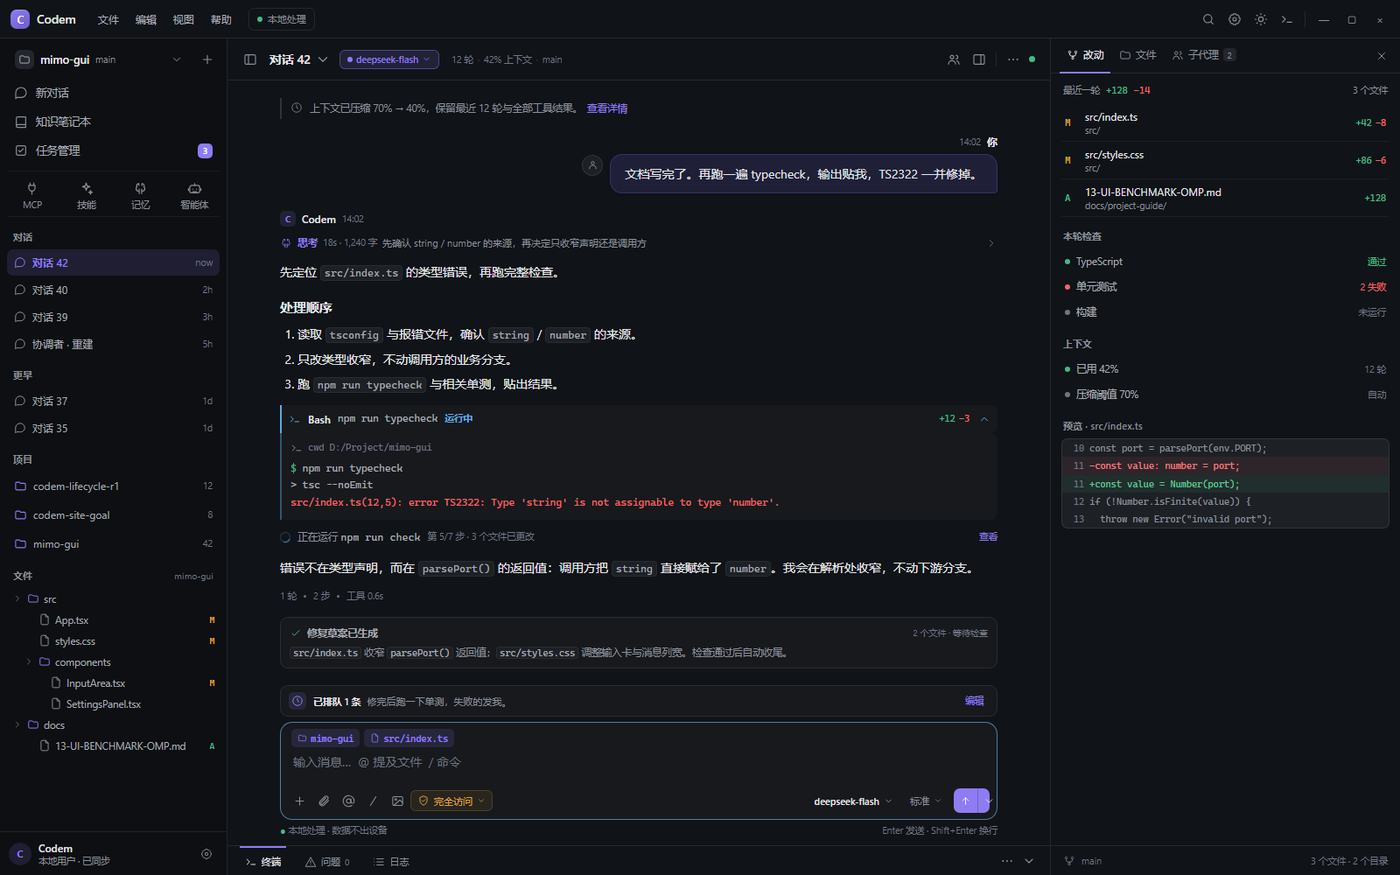
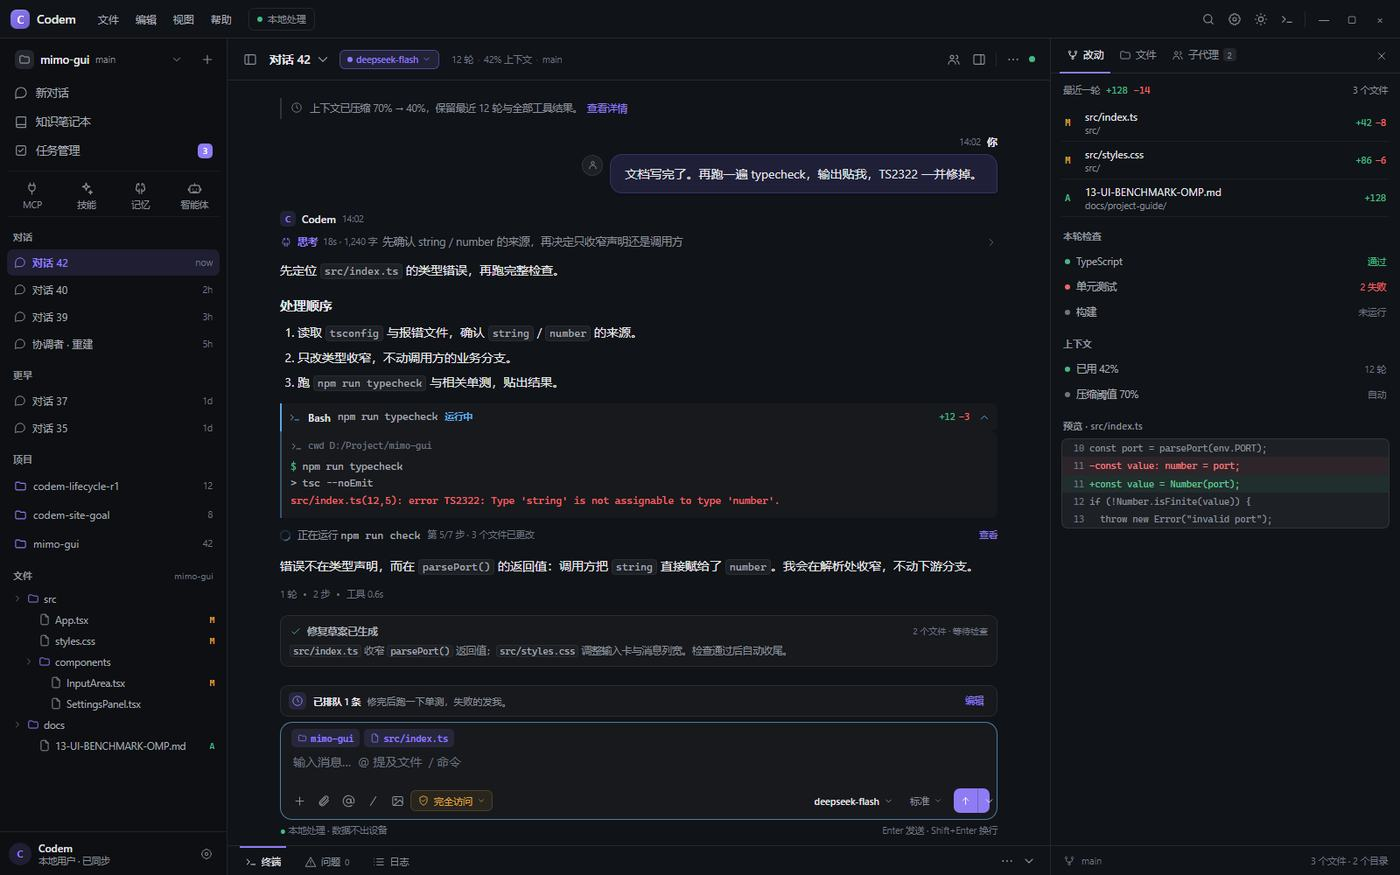
docs(ui): correct reasoning performance claim with DSH/Codex evidence
- withdraw the per-delta main-chat DB claim; msgw=0 confirms main UI
  batches 100ms and persists at boundaries/2s, executor path is background
- inspect DSH open-source packages: single ReasoningRow, paragraph-level
  summary, fixed 24px collapsed height, 200ms JSONL batching
- record Codex Windows concurrent-summary ResizeObserver/UI-freeze issue
- final decision: DSH-like single row, no reasoningSegments, no per-thought
  cards; chunked expanded body only

Changed region(s): [[0.1843, 0.2469, 0.7064, 0.7714], [0.645, 0.7097, 0.7064, 0.7406], [0.6757, 0.4629, 0.7064, 0.4937]]

diff --git a/docs/design/ui-benchmark-mock.html b/docs/design/ui-benchmark-mock.html
@@ -568,8 +568,9 @@
     align-items: center;
     gap: 6px;
     width: 100%;
-    height: 26px;
+    height: 24px;
     margin: 0 0 8px;
+    contain: size layout;
     padding: 0;
     border: 0;
     background: none;
@@ -579,7 +580,7 @@
   .think-row .icon { width: 14px; height: 14px; flex: none; opacity: .9; }
   .think-title { flex: none; font-size: 11.5px; font-weight: 600; }
   .think-meta { flex: none; color: var(--text-4); font-size: 10.5px; }
-  .think-summary { flex: 1; min-width: 0; overflow: hidden; text-overflow: ellipsis; white-space: nowrap; color: var(--text-3); font-size: 11px; }
+  .think-summary { flex: 1; min-width: 0; overflow: hidden; text-overflow: ellipsis; white-space: nowrap; color: var(--text-3); font-size: 12.5px; }
   .think-chev { width: 12px; height: 12px; flex: none; color: var(--text-4); transition: transform .15s ease; }
   .think-row[aria-expanded="true"] .think-chev { transform: rotate(90deg); }
   .think-body {

diff --git a/docs/project-guide/13-UI-BENCHMARK-OMP.md b/docs/project-guide/13-UI-BENCHMARK-OMP.md
@@ -41,7 +41,7 @@ Codem 的功能比 OMP 多得多（23 个设置分区、任务中心、知识笔
 | 8 | 侧栏/树密度：260 / 34 / 30 / 26；Git 字母 | 现在偏大、pill 吵 | 40 行滚动；hover 截图 |
 | 9 | 工具去“每张卡”边框，改行 + 状态轨 | 连续调用像一叠盒子 | 5 个工具连续截图 |
 | 10 | 用户气泡保留原版半透明紫 + 轻阴影 | 用户 review：原版比 OMP 实底更精致 | 与原版截图并排；暗/亮/三皮肤对比度 |
-| 11 | 思考块保留 Codem 的“整体一段”，先做活人感 | OMP 是 per-think 分段卡；Codem 数据模型只有一段 `message.reasoning` | 流式中最新行、完成后首行、展开全文；不按空行伪造分段 |
+| 11 | 思考块对齐 **DSH 的单行 ReasoningRow**，不是 OMP 的多卡 | OMP 是 per-think 分段卡；DSH 是单行 + 段落摘要 | 折叠 24px 固定高、流式段落首行、展开分块 body；不按空行伪造分段 |
 
 ### 0.2 HTML 预演验证（2026-10-26）
 
@@ -63,7 +63,7 @@ Codem 的功能比 OMP 多得多（23 个设置分区、任务中心、知识笔
 | 工具行 + 左状态轨成立，但代码面板与卡片同色会糊 | 代码面板用 `--surface-2`，工具行用 `--surface`；不要加外框 |
 | 暗色 `#101318` 比 OMP `#121519` 还黑一档 | 保留 `#101318` 作为 Codem 底色；如果实拍仍偏黑，再试 `#111419`，不要直接复制 OMP |
 | 设置 active 14% 在暗色成立；20% 明显成块 | P0-5 的 14% 保持；**删掉被覆盖的旧实心规则** |
-| Codem 的 `message.reasoning` 是**一整段**，OMP 的 `ThinkCard` 是 per-think 时间线卡 | **不照搬 OMP 分段**：P1-6 保留整体模型，做“最新行/首行 + 展开全文 + 跟随最新”；真分段需要 `reasoningSegments` 数据模型，放 P2 可选 |
+| Codem 的 `message.reasoning` 是**一整段**，OMP 的 `ThinkCard` 是 per-think 时间线卡 | **最终不做分段卡**：P1-6 对齐 DSH 单行（段落级摘要 + 固定 24px 折叠 + 展开分块 body）；不改数据模型 |
 
 **预演没有解决的问题**（不要假装已经解决）：
 
@@ -194,7 +194,15 @@ Codem 的功能比 OMP 多得多（23 个设置分区、任务中心、知识笔
 
 ### 0.4 思考流渲染性能分析（2026-10-26）
 
-> 先纠正一个前提：**Codem 的 UI 不是每 token 重渲染**。`App.tsx:1775-1801` 的 `flushReasoningBuffer` 已经按 **100ms** 批量 flush；`ReasoningRow` 每 100ms 才收到一次新 `text`。真正每 delta 都做的是 `executor.ts:601` 的 `MessageStorage.updateMessage`（同步写日志 + 索引 IPC + FTS）。所以“整段渲染导致每 token 重排”这个判断不准确，瓶颈要分层看。
+> **先纠正我上一轮说错的地方。** 主聊天路径**不是**每个 `reasoning_delta` 写一次库：
+> - `App.tsx:1775-1801` 已经按 **100ms** 批量 flush；
+> - `appendToMessage` / `safeUpdateMessage` 在主聊天里是**纯内存**；
+> - 落库走 2 秒 autosave / 回合边界 / 工具边界，不是每个 delta；
+> - 真机 `msgw=0`（`docs/PROJECT-GUIDE.md:1157`）已经明确否定了“交互路径每个 delta 写库”这个判断。
+>
+> `executor.ts:601` 的每 delta `updateMessage` 属于**后台/委派路径**（delegation、微信桥、手机续聊），不是主聊天 UI。把这个当成“主聊天最大性能风险”是我上一轮**过度推断**，现在撤回。
+>
+> 因此下面的分析只回答两件事：**长 reasoning 在单块里怎么渲染**，以及**要不要改成分段卡**。
 
 #### 0.4.1 DOM 微基准（不是产品 benchmark）
 
@@ -212,35 +220,48 @@ Codem 的功能比 OMP 多得多（23 个设置分区、任务中心、知识笔
 - 60k 时，**已完成段冻结 + 只更新尾段** 的布局成本低一个数量级；`content-visibility` 再把已完成段从布局里摘掉，收益更大。这是“分段/分块”的真实收益。
 - 反过来，如果每段都重渲染、所有段都挂载、每段都做 Markdown/高亮，**卡片越多越慢**。收益来自“已完成内容冻结 + 只更新尾部”，不是“卡片数量”。
 
-#### 0.4.2 结论：要调的是“增量单位”，不一定是“数据模型”
+#### 0.4.2 DSH / Codex 的源码证据（不是凭“主流”猜）
 
-- **OMP 的性能并不是因为“卡多”**：它的 `ThinkCard` 是 `memo`，`useLazyExpand` 折叠时不挂 body，`ChunkedText` 按 64 行分块 + `content-visibility:auto`，`follow` 只跟随正在运行的那一张。
-- **Codex CLI 是终端渲染**，和 React/DOM 不是同一套性能模型；“主流都分段”不能直接证明 Codem 必须改协议。
-- **Codem 当前真正贵的地方**：
-  1. `executor.ts` 每个 `reasoning_delta` 同步 `updateMessage`（日志 + 索引 + FTS），与 token 数同向增长；UI 100ms 批量并不能省这部分。
-  2. 流式默认展开，`ReasoningRow` 把完整 reasoning 放进一个 `pre-wrap` 文本节点；60k 时每 100ms 布局一次，微基准 p95 已到 25.5ms、max 33.4ms。
-  3. 折叠时只渲染 summary，成本很低；所以“长思考 + 默认展开”才是最差组合。
-- **所以优先级**：
-  1. **先做 chunked 单块**（不改数据模型）：把正文按 64 行分块、`content-visibility:auto`，只更新尾块；折叠时 body 不挂载。预计能吃到微基准的大部分收益。
-  2. **再做持久化批量**：`reasoning_delta` 的 `updateMessage` 改成 100–250ms 批量，tool_start/tool_complete/end/error 强制 flush；用现有 `takeMessageWriteStats()` 量 calls/ms/max，不要凭感觉。
-  3. **最后才评估分段卡**：只有产品明确要 OMP 的时间线，才改 `reasoningSegments`；否则不要为“看起来像”付数据模型成本。
-- **不要**把“分段卡”当成性能优化：它只有在 **memo + 懒挂载 + 尾段更新 + 段数上限/合并** 都成立时才更快；否则 50 张卡的重渲染会比一个块更慢。
+**DSH（开源：[deepseek-ai/deepseek-harness](https://github.com/deepseek-ai/deepseek-harness)，本机安装 `@deepseek-ai/dsh 0.2.1-rc.2`）**
 
-#### 0.4.3 对 P1-6 的修改
+- 持久化：`dsh-session-persistence-jsonl` 的 `enqueueLive()` 把 live 事件放进缓冲，**固定 200ms** 窗口后 single-flight drain（`lib/index.js` 的 `setTimeout(..., 200)`）；不是每个 delta 一次 fsync。
+- 推理 UI：`dsh-client-ui-chat` 的 `ReasoningRow` 是**一个 assistant reasoning block**，不是 per-thought 卡：
+  - `summaryText = running ? latestCompletedParagraphFirstLine(text) : firstLine(text)`；
+  - 折叠时 `contain: size layout`、固定 `24px + font delta`，**不挂 body**；
+  - 展开才挂 Markdown body；`memo` + `useMemo`；`TextShimmer` 做流式高光。
+- 实时发布：工具 delta 与推理共用**按帧合并**的发布节奏；持久调用/结果立即发布。
+- 结论：DSH 是“**单行 + 段落级摘要 + 固定折叠高度 + 展开 body**”，不是 OMP 的多张 ThinkCard。
 
-- P1-6 从“只改位置/样式”升级为：
-  - **折叠时只渲染 summary**，body 不挂载（成本接近 0）；
-  - **展开时按 64 行分块**，已完成块 `content-visibility:auto`，只更新尾块；
-  - 流式超过 **20k 字符**自动回到“summary + 展开全文”，不默认挂完整 body；
-  - 用户手动展开后，保持展开但只挂最近 2 个块 + 可视区，其余按需挂载。
-- P1-6b 新增“持久化批量”性能项（0.5–1 天，不改视觉）：见 0.3.9/0.4.2；必须有 crash/异常 flush 判据。
-- P2-5 分段卡保留为“产品要 OMP 时间线才做”，不是性能前置。
+**Codex Windows（Electron 桌面 + Rust app-server，闭源）**
+
+- 本地安装研究：[Codex Windows UI/UX study](https://github.com/anthony-chaudhary/fak/blob/f4984534c97a92f18956b64beac0823a200d6931/docs/notes/2026-09-05-codex-desktop-windows-uiux-harness-study.md) 记录它是 Electron 42.3 + `codex.exe app-server` + SQLite 历史；不是纯 CLI。
+- 推理 UI 有已知 issue：
+  - [#33996](https://github.com/openai/codex/issues/33996)：**并发 reasoning summaries** 与 `ResizeObserver loop completed with undelivered notifications`、Windows UI 卡死/Not Responding 强相关；关掉 `concurrent_reasoning_summaries` 后该环境恢复。
+  - [#43679](https://github.com/openai/codex/issues/43679)：Chat 的 thinking disclosure 在首个 summary 到达时仍保持 collapsed；说明它也是**disclosure 行 + summary**，不是每 token 一张卡。
+- 结论：Codex 的“分段”更接近 **reasoning summary item/disclosure**；它自己就出现过“多 summary 并发 → 布局反馈循环 → UI 卡”的事故。**不能把“主流分段”当成性能更优的证明。**
+
+**OMP**
+
+- `BatchChain.tsx:147-191` 的 `ThinkCard` 是真正的 per-think timeline item；它快是因为 `memo` + `useLazyExpand` + `ChunkedText` 64 行 + `content-visibility` + 只跟尾，而不是“卡多”。
+
+#### 0.4.3 最终判断：保留单块，做 DSH 级单行，不做分段卡
+
+- **数据模型不改**：`message.reasoning: string` 继续用；不引入 `reasoningSegments`，不改 DB/API，不做旧会话迁移。
+- **UI 采用 DSH 的形状**：
+  - 一条 assistant 消息一个 `ReasoningRow`；
+  - 流式 summary 用**最近一个已完成段落的首行**，完成态用首行；不要每字符横向滚动；
+  - 折叠态固定 24px，`contain: size layout`，body 不挂载；
+  - 展开态才挂 body，按 64 行分块 + `content-visibility:auto`，只更新尾块；
+  - 不把 `ResizeObserver` 绑在会随 summary 变高的行上（Codex #33996 的教训）。
+- **主聊天性能风险**：不是写库，是“60k 长文本 + 流式默认展开 + 一个 `pre-wrap` 节点每 100ms 重排”。修法是分块/折叠，不是加卡片。
+- **后台/委派路径的每 delta 写库**是另一个问题：只影响 delegation/微信/手机后台，不影响主聊天；单独开 perf ticket，不混进这次 UI 一步到位。
+- **P2-5 取消**：不做 per-thought 分段卡。不是“以后再说”，是**当前证据不支持**它作为默认架构。
 
 **性能验收门槛**：
 
-- 60k 字符 reasoning，流式 10 次/秒更新，Edge 真机：**无 >50ms 长帧**；p95 frame work ≤8ms；页面滚动不跳。
-- `takeMessageWriteStats()`：60k reasoning 的 `updateMessage` 调用次数从“按 delta”降到 **≤10 次/秒 + 边界 flush**；`maxMs` 不高于基线。
-- 分段卡若做：段数 >30 时必须合并/虚拟化；已完成段 0 重渲染（React Profiler 验证）。
+- 60k 字符 reasoning，10 次/秒更新：p95 frame work ≤16.7ms、无 >50ms 长帧；折叠态高度稳定 24px。
+- 主聊天 `takeMessageWriteStats()` 保持 **0 次/轮**（现状），不能因为重构引入 per-delta 写库。
+- 展开 body 的已完成块 0 重渲染（React Profiler）；不出现 ResizeObserver 反馈循环。
 
 ---
 
@@ -856,49 +877,36 @@ Codem 的功能比 OMP 多得多（23 个设置分区、任务中心、知识笔
 - 数据：`Message.reasoning?: string`（`src/core/llm/types.ts:102`）——一条 assistant 消息只有**一段** reasoning；`ReasoningRow` 只接收 `text` + `running`。
 - 位置：`MessageBubble` 先渲染正文（约 789 行），再渲染 `ReasoningRow`（约 871 行），最后才是 `toolCalls`（约 876 行）。所以现在是“回答 → 思考 → 工具回执”，不是 OMP 的“思考卡 → 工具卡 → 回答”时间线。
 - 已有能力：流式时 `latestLine` 跟随 + 摘要自动滚到末尾；展开后整段正文 + 光标；历史默认折叠。**基础已经像样，不需要换成 OMP 的 `ThinkCard` 结构。**
+- 但 `latestLine` 每 100ms 横向滚动一个**未完成行**，视觉上会“抖”；DSH 的做法是等一个**段落完成**再换摘要。
 
-**P1 目标：一个块，但要有“活着”的感觉**
+**P1 目标：对齐 DSH 的“单行 + 段落摘要”，不是 OMP 的“多卡”**
 
 - **位置**：移到 `msg-head` 之后、正文之前；正文之后仍是工具组。形成“思考（折叠）→ 正文 → 工具回执”的稳定顺序。不要声称这是真实时间线。
-- **折叠行**：26px；brain 14；`思考` 11.5/600 accent；`18s · 1,240 字` 10.5 muted（**18s 只在有真实 startedAt 时显示；没有就只显示字数，不造时长**）；summary 11px 单行 ellipsis；chevron 12。
-  - 流式 summary 用 `latestLine`；完成后用 `firstLine`；空文本显示“（无摘要）”。
-  - 流式中标题 `思考中...` + brain pulse，但不要和 `StreamingTimer` 抢同一个 spinner。
+- **折叠行**：**24px**；brain 14；`思考` 11.5/600 accent；`18s · 1,240 字` 10.5 muted（**18s 只在有真实 startedAt 时显示；没有就只显示字数，不造时长**）；summary 13px/20px 单行 ellipsis；chevron 12。
+  - 流式 summary 用 **`latestCompletedParagraphFirstLine`**（最近一个已完成段落的首行），不是 `latestLine`；完成后用 `firstLine`；空文本显示“（无摘要）”。
+  - 流式中标题 `思考中...` + brain pulse；**折叠行高度固定 24px + `contain: size layout`**，不让 summary 变化触发父级尺寸观察。
+- **折叠策略**：**流式默认折叠**（只显示 summary，body 不挂载）；用户手动展开才挂 body；用户收起后不因新 token 重开；历史默认折叠。这样长思考的默认渲染成本接近 0，同时 summary 按段推进，仍然“活着”。
 - **展开体**：13px / 1.65，`max-height: 360`，内部滚动；`surface-2` 底；左 2px accent 40% 轨；radius `0 8 8 0`；padding 8/12；流式末尾 6×13 光标。
-- **跟随**：只有用户位于底部时才 auto-follow 最新；用户上滚后停止跟随并显示“回到最新”小按钮，不要每帧抢滚动。
-- **折叠策略**：流式默认展开；用户手动收起后**不因新 token 重开**；完成后保持用户选择；历史默认折叠。现有 `reasoningAutoCollapsedRef` 逻辑保留，只改位置与样式。
-- **长文本**：折叠时 **body 不挂载**（成本接近 0）；展开时按 64 行分块 + `content-visibility:auto`，只更新尾块，不要把完整 60k 文本塞进一个 `pre-wrap` 节点每 100ms 重排。
-- **流式阈值**：超过 **20k 字符**自动回到“summary + 展开全文”，不默认挂完整 body；用户手动展开后挂可视区 + 最近 2 块，其余按需挂载。
+- **长文本**：展开时按 64 行分块 + `content-visibility:auto`，只更新尾块；不要把完整 60k 文本塞进一个 `pre-wrap` 节点每 100ms 重排。
+- **跟随**：展开体只有用户位于底部时才 auto-follow 最新；用户上滚后停止跟随并显示“回到最新”小按钮，不要每帧抢滚动。
 - **a11y**：toggle `aria-expanded` / `aria-controls`；正文 `role="region"` + `aria-label="思考过程"`；不要对每个 token 做 `aria-live`，只对“思考中/完成”节流播报。
 
 **明确不做**
 
-- 不按空行/句号把一段 reasoning 切成多张“ThinkCard”——那是**伪造时间线**，会误导用户以为思考和工具是交替发生的。
-- P1 不改数据库/事件协议；`message.reasoning` 仍是一段。
+- **不做 per-thought `ThinkCard`**：DSH 是单行 ReasoningRow；Codex 的 reasoning summary 有 #33996 的 ResizeObserver/UI 卡死前科；OMP 的 per-think 卡是它自己的产品选择，不是性能或主流共识。
+- 不按空行/句号把一段 reasoning 切成多张卡——那是**伪造时间线**，会误导用户以为思考和工具是交替发生的。
+- 不改数据库/事件协议；`message.reasoning` 仍是一段；主聊天落库仍是 2 秒/边界，不做 per-delta 写库。
+- 不改 `StreamingTimer` / 状态行；思考行不抢同一个 spinner。
 
 **验收**：
 
-- 流式：summary 跟随最新行；展开体光标可见；用户上滚后不跳。
-- 完成：summary 首行；`18s · 1,240 字`；折叠/展开状态保持。
+- 流式：折叠态固定 24px；summary 按**段落完成**推进，不逐字符抖；展开体光标可见；用户上滚后不跳。
+- 完成：summary 首行；字数真实；折叠/展开状态保持；`18s` 只在有 startedAt 时出现。
 - 历史：默认折叠；展开完整；长文本在 360 内滚动。
-- 位置：在正文之前、工具之前；和 OMP 并排看，明确“我们是一个块，不是多张卡”。
+- 位置：在正文之前、工具之前；和 DSH 的 ReasoningRow 并排看，明确“一个块，不是多张卡”。
+- **性能**：60k 字符、10 次/秒更新，折叠态无长帧；展开态 p95 ≤16.7ms、无 >50ms；主聊天 `msgw` 保持 0。
 
-#### P1-6b 思考持久化批量（0.5–1 天，不改视觉）
-
-**文件**：`src/core/session/executor.ts:601`、`src/core/storage/message.ts`。
-
-- 现状：每个 `reasoning_delta` 都同步 `MessageStorage.updateMessage`（日志 + 索引 IPC + FTS）；UI 的 100ms 批量只省了 React，没省这里。
-- 改成 **100–250ms 批量**：reasoning 缓冲 + 定时 flush；以下边界强制 flush：
-  - `tool_start` / `tool_complete` / `tool_error`
-  - 回合结束 / 错误 / 取消
-  - 切换会话 / 窗口关闭前
-- 用现有 `takeMessageWriteStats()` 记录 calls/ms/maxMs；加判据：批量后调用次数下降，但**工具前/结束后至少各落一次**，不能丢 reasoning。
-- 不做“只写最终值”：崩溃/强制退出时最后一段 reasoning 允许最多一个 flush 窗口丢失，和不写不同，要在测试里明确。
-
-**验收**：
-
-- 60k reasoning：`updateMessage` 调用从“每个 delta”降到 **≤10 次/秒 + 边界 flush**；`maxMs` 不高于基线。
-- 工具开始/结束、异常、退出路径各有一个 flush 判据；重启后 reasoning 不丢整段。
-- 不改 DB schema、不改 API 协议、不改历史消息读取。
+> **后台/委派路径的 per-delta 写库不在这次“一步到位”里。** `executor.ts` 只服务 delegation / 微信桥 / 手机续聊；它确实是每个 reasoning_delta 同步写，但主聊天 `msgw=0`。如果以后后台会话慢，单独开 `perf(delegation): batch reasoning persistence`，不要混进 UI 重构的验收。
 
 #### P1-7 设置行组 + 菜单/弹层
 
@@ -930,8 +938,8 @@ Codem 的功能比 OMP 多得多（23 个设置分区、任务中心、知识笔
 2. **右侧 Inspector 常驻**：项目会话默认展开 **400px**，复用 `PanelSidebar` 的 Files/Git/Changes；1440 宽 360，≤1280 收起；Composer/正文列仍 820。
 3. **底部面板**：默认 **34px 折叠**；终端按需展开 **190px**；不做 OMP 的常驻 240；与右侧 Inspector 不重复。
 4. **页面级导航**：仅对设置/任务中心/知识/用量等“全屏页”加 44px 页头 + 图标 nav；不要动聊天主区。
-5. **分段思考时间线（可选，需数据模型）**：如果产品明确要 OMP 的 per-think 卡，必须先把 `message.reasoning: string` 升级为 `reasoningSegments[]`（含 `stepId/toolCallId/startedAt/endedAt`），由 agent loop 在 `reasoning_delta` 边界写入；只对新会话启用、旧消息回退单块；不按空行猜分段。成本 2–4 天 + DB/事件契约测试，不在 P1 做。**性能上它不是前置**：0.4 的微基准说明，先做 chunked 单块 + 批量写库，收益更大、风险更低；分段卡只有在 memo/懒挂载/段数上限成立时才值得做。
-5. **Home/Agent Hub/Capabilities/Models**：按 OMP 的“列表 + 详情/卡片”重构；这是产品功能，不是纯 UI，需单独立项。
+5. ~~**分段思考时间线（可选，需数据模型）**~~ **取消**：DSH 是单行 ReasoningRow，Codex 的 reasoning summary 有 ResizeObserver/UI 卡死前科；OMP 的 per-think 卡不是性能或主流共识。Codem 不做 per-thought `ThinkCard`，不改 `reasoningSegments`。
+6. **Home/Agent Hub/Capabilities/Models**：按 OMP 的“列表 + 详情/卡片”重构；这是产品功能，不是纯 UI，需单独立项。
 
 ### 6.4 P3：皮肤与持续治理
 
@@ -1037,7 +1045,7 @@ Codem 的功能比 OMP 多得多（23 个设置分区、任务中心、知识笔
 - [ ] 用户气泡保持原版半透明紫（15%/25% + 轻阴影 + 24px 头像），没有变成 OMP 实底。
 - [ ] 不只靠颜色：diff 有 +/−、Git 有字母、状态有图标/文字。
 - [ ] 思考块在正文之前：流式 summary 跟随最新行、展开体有光标、用户上滚不跳；完成后首行 + 字数；不按空行伪造分段。
-- [ ] 60k 字符 reasoning 流式 p95 frame ≤16.7ms、无 >50ms 长帧；`updateMessage` ≤10 次/秒 + 工具/结束边界 flush；分段卡不做假时间线。
+- [ ] 60k 字符 reasoning 流式 p95 frame ≤16.7ms、无 >50ms 长帧；折叠态固定 24px；主聊天 `msgw` 保持 0（不因重构引入 per-delta 写库）；不做分段卡。
 
 ### 7.5 建议的提交粒度
 
@@ -1054,8 +1062,7 @@ Codem 的功能比 OMP 多得多（23 个设置分区、任务中心、知识笔
 | P1-1 | `feat(cmdk): grouped command center` | 只改命令面板 |
 | P1-2 | `feat(model): role-based picker` | 只改模型菜单 |
 | P1-3 | `style(sidebar): density + tree status` | 只改侧栏/树 |
-| P1-6 | `style(chat): live grouped reasoning` | 只改思考块 |
-| P1-6b | `perf(chat): batch reasoning persistence` | 只改写入频率/边界 |
+| P1-6 | `style(chat): DSH-like reasoning row` | 只改思考块（不改数据模型） |
 | P1-4 | `style(tools): row-first tool surface` | 只改工具 |
 
 > 不要一个 commit 同时改 token + 布局 + 组件；否则截图差异无法归因，回滚也会带走别的改动。
